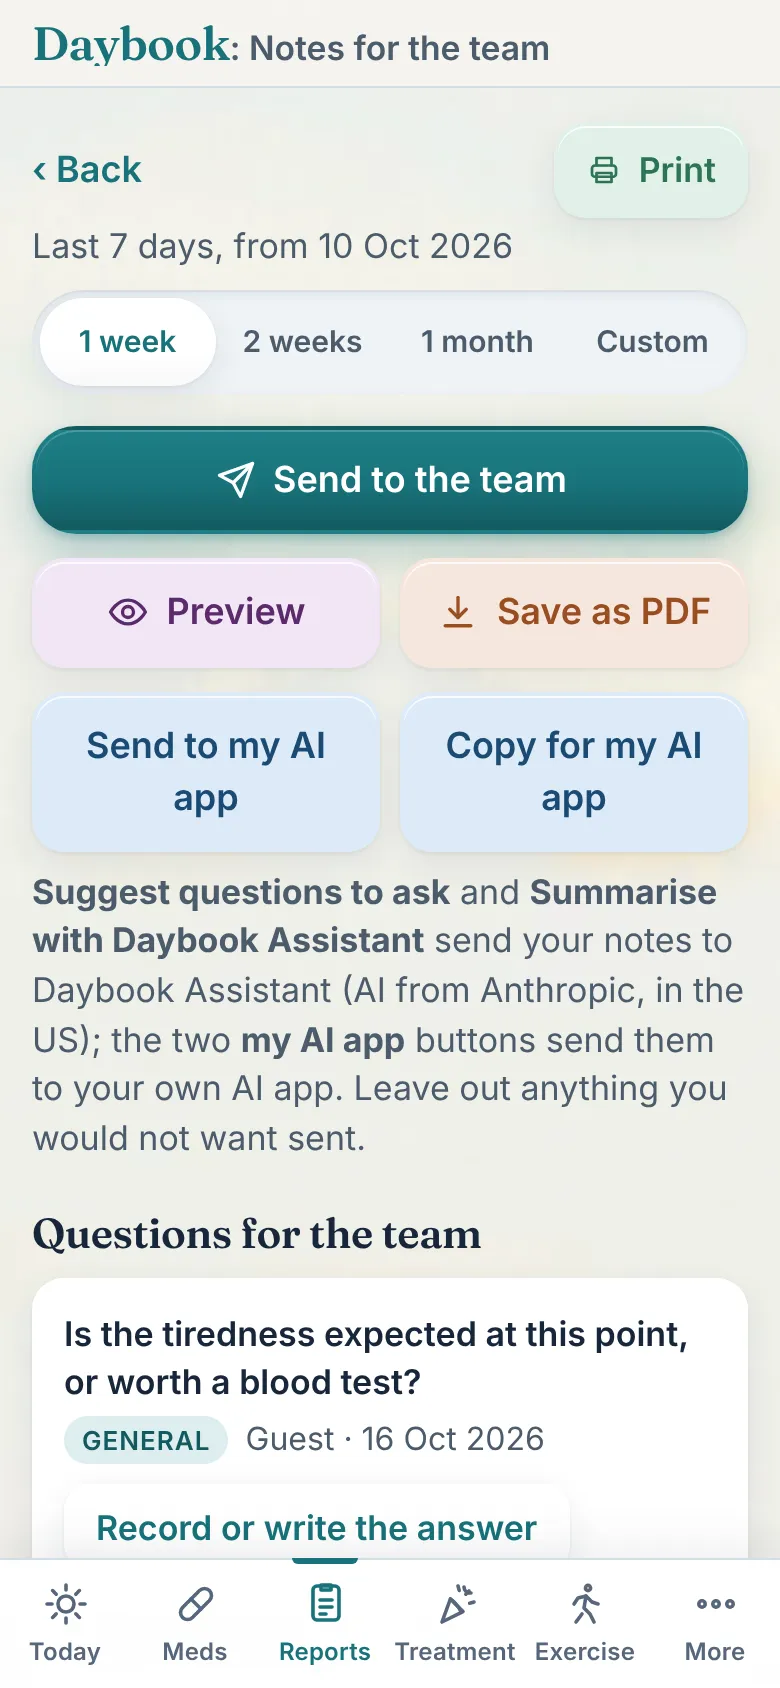
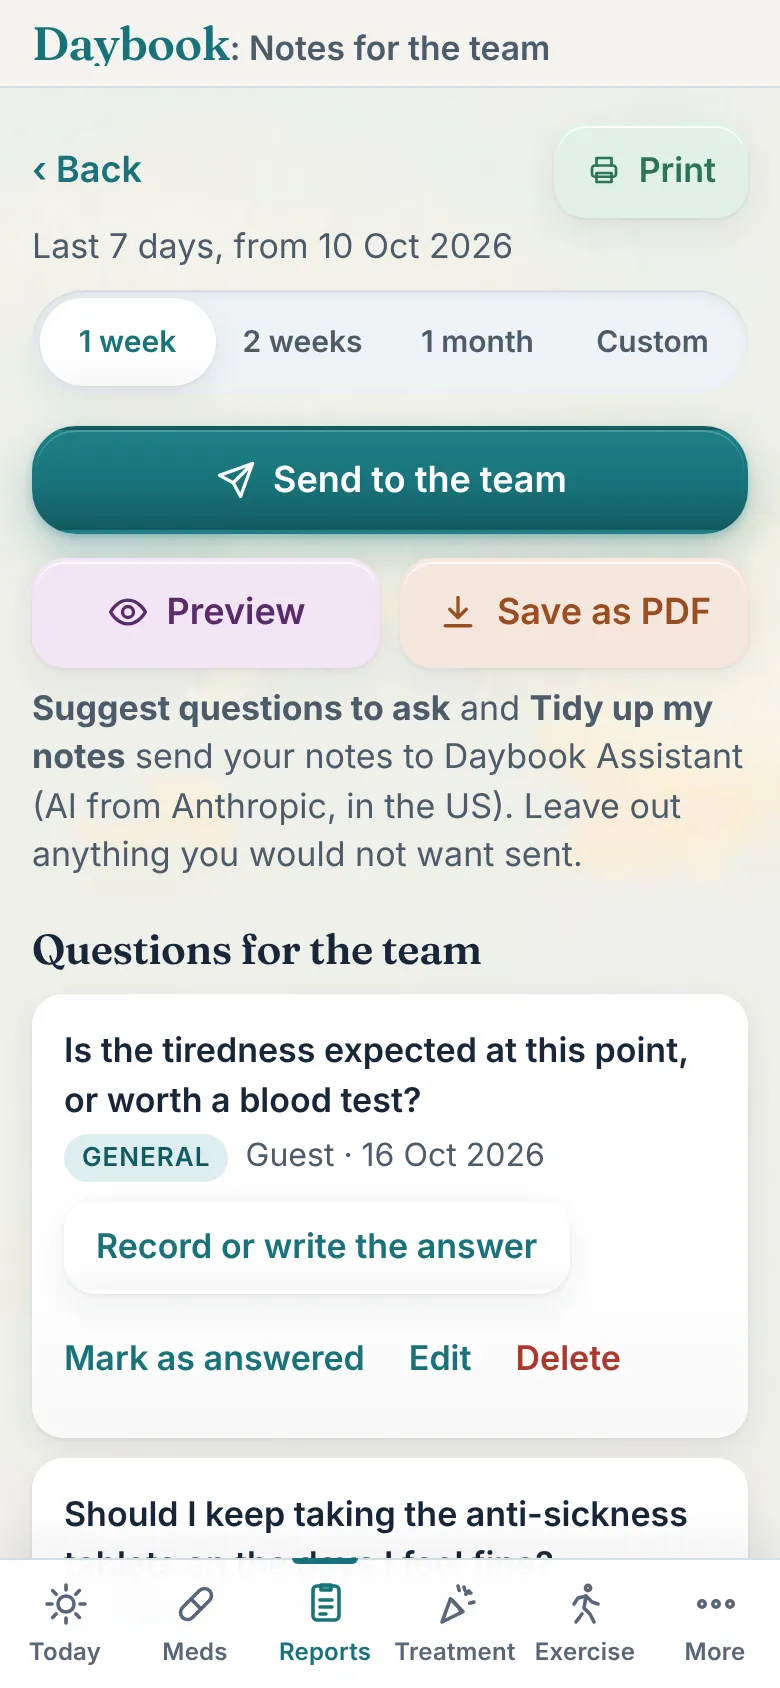
Guide retaken at the app's v341 (Notes for the team without the AI app buttons)
Claude-Session: https://claude.ai/code/session_019VY17MM1Pv81B6vJUTKu9b

Changed region(s): [[0.0308, 0.4005, 0.9846, 0.9242]]

diff --git a/js/site.js b/js/site.js
@@ -115,7 +115,7 @@
       if (!reduced && auto !== false) play(); else stop();
     };
     var load = function () {
-      return fetch('guide/guide.json?v=23').then(function (r) { if (!r.ok) throw new Error('guide ' + r.status); return r.json(); });
+      return fetch('guide/guide.json?v=24').then(function (r) { if (!r.ok) throw new Error('guide ' + r.status); return r.json(); });
     };
     load().then(function (d) {
       G.data = d;

diff --git a/privacy.html b/privacy.html
@@ -106,6 +106,6 @@
       <p>Daybook is not a medical device and gives no medical advice. In an emergency call 999; for urgent advice call 111.</p>
     </div>
   </footer>
-  <script src="js/site.js?v=25" defer></script>
+  <script src="js/site.js?v=26" defer></script>
 </body>
 </html>

diff --git a/support.html b/support.html
@@ -75,6 +75,6 @@
       <p>Daybook is not a medical device and gives no medical advice. In an emergency call 999; for urgent advice call 111.</p>
     </div>
   </footer>
-  <script src="js/site.js?v=25" defer></script>
+  <script src="js/site.js?v=26" defer></script>
 </body>
 </html>

diff --git a/terms.html b/terms.html
@@ -83,6 +83,6 @@
       <p>Daybook is not a medical device and gives no medical advice. In an emergency call 999; for urgent advice call 111.</p>
     </div>
   </footer>
-  <script src="js/site.js?v=25" defer></script>
+  <script src="js/site.js?v=26" defer></script>
 </body>
 </html>

diff --git a/beta.html b/beta.html
@@ -153,6 +153,6 @@
     </div>
   </footer>
 
-  <script src="js/site.js?v=25" defer></script>
+  <script src="js/site.js?v=26" defer></script>
 </body>
 </html>

diff --git a/index.html b/index.html
@@ -466,6 +466,6 @@
     </div>
   </footer>
 
-  <script src="js/site.js?v=25" defer></script>
+  <script src="js/site.js?v=26" defer></script>
 </body>
 </html>
